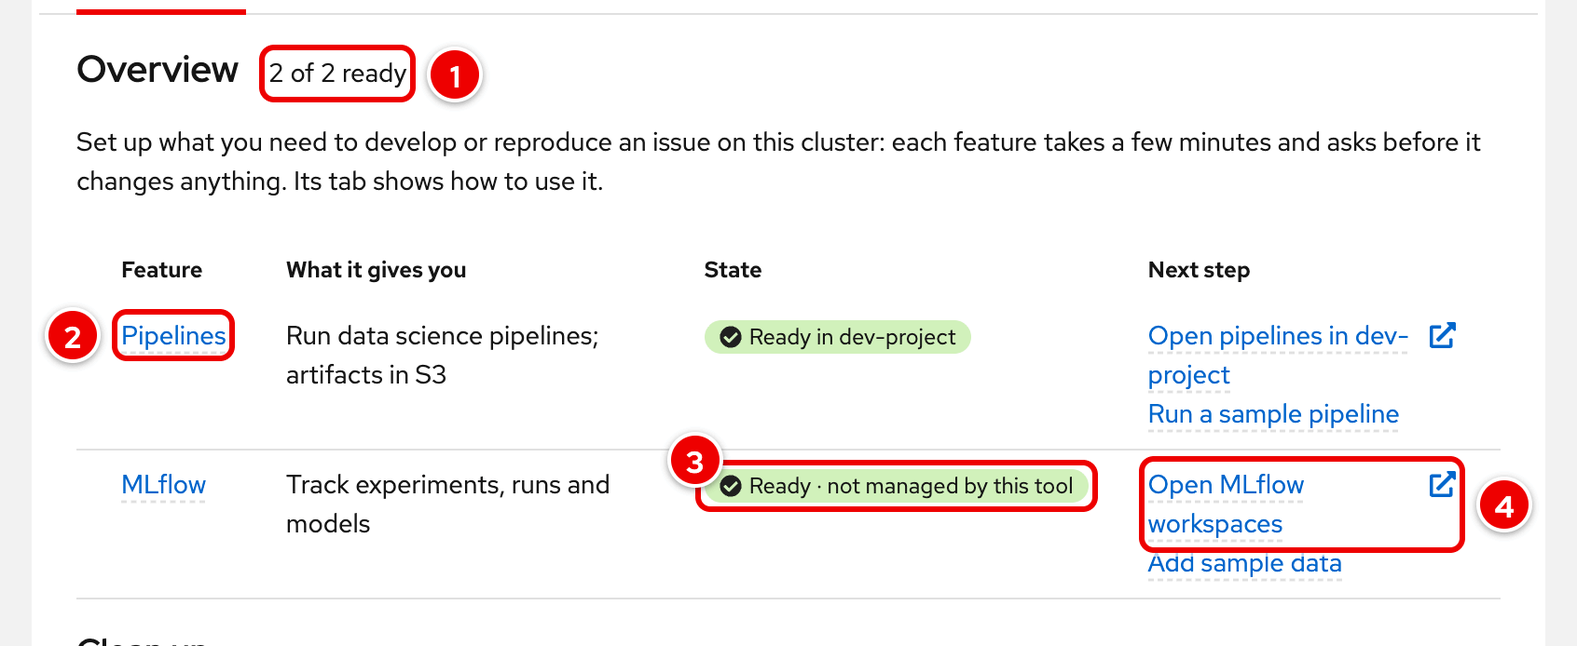
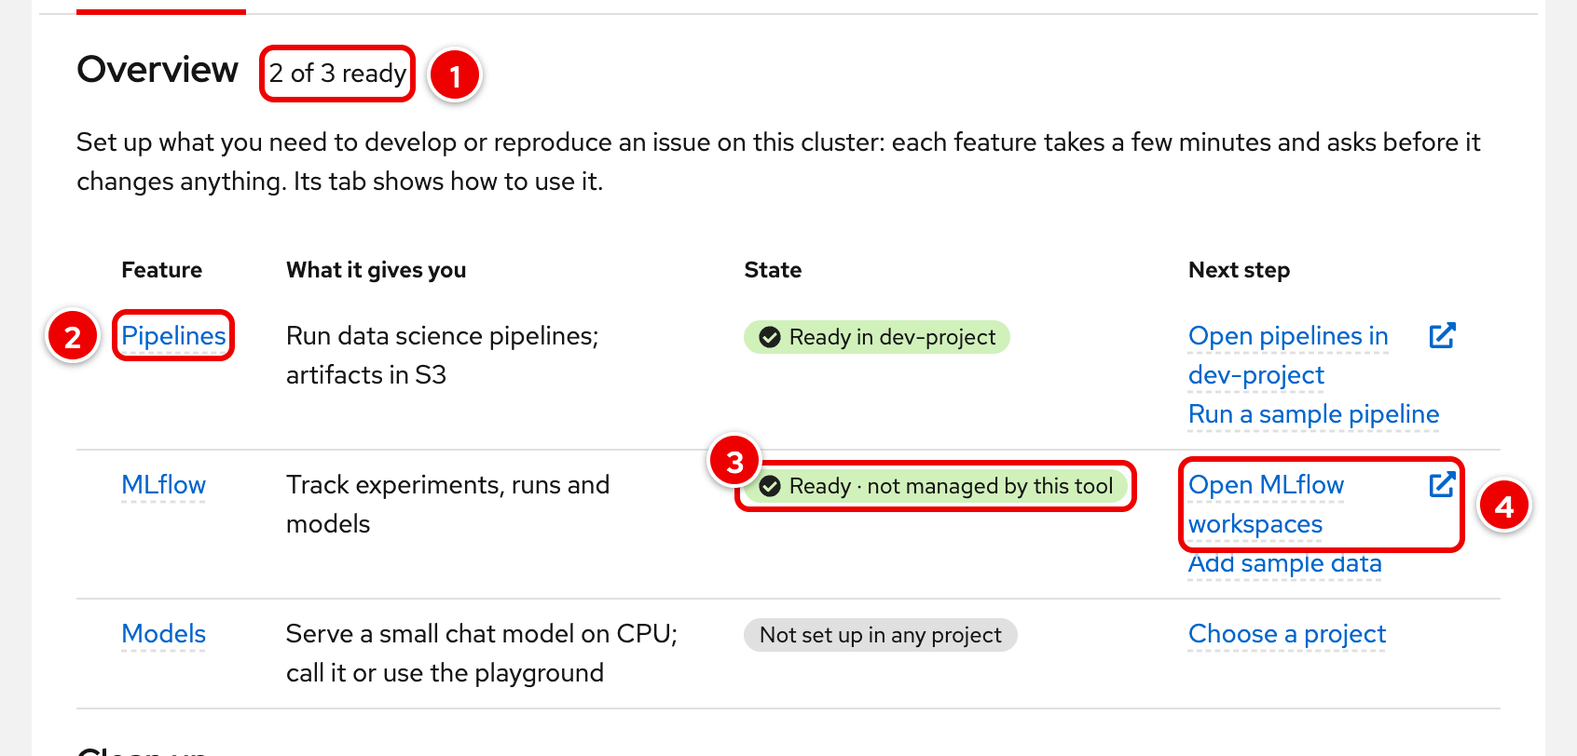
Models: docs, mock states and docs images
- CLUSTER_CHANGES §8: every object the gateway and model setups create,
  what OpenShift, KServe and odh-model-controller add, and what each
  removal deletes and keeps. RUNBOOK §10.2: calling the model with your
  own token, troubleshooting (missing nightly preset image, no room,
  OOM, preset gone, missing AuthPolicy, gateway in use) and rollback.
  README: the Models tab, VLLM_CPU_IMAGE. CHANGELOG 3.0.0.
- Mock: every Models state (ready on the released image, starting,
  preset image missing, foreign gateway and model, unknown health,
  gateway starting, capacity warning, serving blocked, read-only) and
  the Models and clean-up streams.
- Docs images environment-models and environment-models-image; the
  Overview image has the Models row. The samples capture names the
  Regenerate button as the UI now does.
- Models tab: the runtime image on its own line, the addresses as
  copyable references, the load balancer note for a gateway not set up
  yet. A DataScienceCluster that reports the LLM dependencies missing no
  longer reads as model serving turned off.

diff --git a/frontend/src/components/environment/ModelsTab.tsx b/frontend/src/components/environment/ModelsTab.tsx
@@ -3,7 +3,6 @@ import {
   ActionListItem,
   Alert,
   AlertActionLink,
-  ClipboardCopy,
   Content,
   DescriptionList,
   DescriptionListDescription,
@@ -99,7 +98,7 @@ const GatewayPart: React.FC<ModelsTabProps> = ({ status, busy, baseReason, readO
         The front door to every model on the cluster: it answers at <code>https://inference.&lt;apps domain&gt;</code>, sends each call to its model, and checks the caller&apos;s OpenShift token.
         {unmanaged
           ? " It was created outside this tool (for example by RHOAI's installation): models use it as it is, and this tool does not change or delete it."
-          : " It creates a cloud load balancer, which costs money while it exists."}
+          : deployed ? " It runs on a cloud load balancer, which costs money while it exists." : " Setting it up creates a cloud load balancer, which costs money while it exists."}
       </Content>
       {gw && <ProblemAlerts kind="gateway" state={gw} />}
       {deployed && s === "setting-up" && !terminalReason(gw) && !isTerminating(gw) && <StartingNote state={gw!} typical="under a minute" />}
@@ -113,7 +112,7 @@ const GatewayPart: React.FC<ModelsTabProps> = ({ status, busy, baseReason, readO
             <DescriptionListGroup>
               <DescriptionListTerm>External address</DescriptionListTerm>
               <DescriptionListDescription>
-                <ClipboardCopy isReadOnly hoverTip="Copy" clickTip="Copied" variant="inline-compact" aria-label="External address of the inference gateway">{gw.externalUrl}</ClipboardCopy>
+                <ImageRef image={gw.externalUrl} what="external address" truncate={false} isCode={false} />
               </DescriptionListDescription>
             </DescriptionListGroup>
           )}
@@ -190,7 +189,7 @@ const ModelPart: React.FC<ModelsTabProps> = ({ status, project, busy, baseReason
             <DescriptionListGroup>
               <DescriptionListTerm>Address</DescriptionListTerm>
               <DescriptionListDescription>
-                <ClipboardCopy isReadOnly hoverTip="Copy" clickTip="Copied" variant="inline-compact" aria-label={`Address of the model in ${project}`}>{model.url}</ClipboardCopy>
+                <ImageRef image={model.url} what="model address" isCode={false} />
               </DescriptionListDescription>
             </DescriptionListGroup>
           )}
@@ -198,8 +197,10 @@ const ModelPart: React.FC<ModelsTabProps> = ({ status, project, busy, baseReason
             <DescriptionListGroup>
               <DescriptionListTerm>Runtime image</DescriptionListTerm>
               <DescriptionListDescription>
-                {imageWords(model)}
-                {model.currentImage && <> (<ImageRef image={model.currentImage} what="runtime image" />)</>}
+                <Stack>
+                  <StackItem>{imageWords(model)}</StackItem>
+                  {model.currentImage && <StackItem><ImageRef image={model.currentImage} what="runtime image" /></StackItem>}
+                </Stack>
               </DescriptionListDescription>
             </DescriptionListGroup>
           )}

diff --git a/docs/tools/capture.js b/docs/tools/capture.js
@@ -425,6 +425,29 @@ async (page) => {
         pad: 24,
       });
 
+      // Models: the gateway and a ready model; a nightly preset image that is missing.
+      await open("/test-resources?tab=models&project=dev-project", "env-models-ready");
+      const gateway = part("Inference gateway");
+      const qwen = part("Qwen2.5 0.5B Instruct (CPU)");
+      await crop("environment-models", [panel().getByRole("heading", { name: "Models", level: 2 }), qwen], {
+        notes: [
+          { at: label(panel(), "Ready in dev-project"), n: 1, pos: "r" },
+          { at: row(gateway, "External address"), n: 2, pos: "l" },
+          { at: row(qwen, "Address"), n: 3, pos: "l" },
+          { at: row(qwen, "Runtime image"), n: 4, pos: "l" },
+        ],
+        pad: 24,
+      });
+      await open("/test-resources?tab=models&project=dev-project", "env-models-image-missing");
+      const broken = part("Qwen2.5 0.5B Instruct (CPU)");
+      await crop("environment-models-image", broken, {
+        notes: [
+          { at: broken.getByText("The cluster preset's image is not published yet"), n: 1, pos: "r" },
+          { at: broken.getByRole("button", { name: "Use the newest released Red Hat image" }), n: 2, pos: "r" },
+        ],
+        pad: 24,
+      });
+
       // Samples: the MLflow tab's Sample data and the Pipelines tab's sample run.
       const section = (name) => page.getByRole("region", { name });
       await open("/test-resources?tab=mlflow&project=dev-project", "env-samples");
@@ -433,7 +456,7 @@ async (page) => {
         notes: [
           { at: samples.getByRole("button", { name: "Add all" }), n: 1, pos: "l" },
           { at: label(samples, "Partly added"), n: 2, pos: "r" },
-          { at: samples.getByRole("button", { name: "Regenerate agent and prompt demo" }), n: 3, pos: "r" },
+          { at: samples.getByRole("button", { name: "Regenerate the agent and prompt demo" }), n: 3, pos: "r" },
           { at: label(samples, "Not managed by this tool"), n: 4, pos: "r" },
         ],
         pad: 24,

diff --git a/frontend/src/components/environment/models.test.tsx b/frontend/src/components/environment/models.test.tsx
@@ -101,7 +101,7 @@ describe("Models tab", () => {
     stubApi({ "/api/resources/status": status({ inferenceGateway: { ...gateway, usedBy: ["dev/qwen25-05b-instruct"], teardownBlockedReason: "Models route through it: dev/qwen25-05b-instruct. Delete that model first." }, models: modelsStatus({ items: [model("dev")] }) }), "/api/resources/projects": { projects: ["dev"] } });
     renderAt("/test-resources?tab=models&project=dev");
     const gw = await screen.findByRole("listitem", { name: "Inference gateway" });
-    expect(within(gw).getByText(/costs money while it exists/)).toBeInTheDocument();
+    expect(within(gw).getByText(/runs on a cloud load balancer, which costs money while it exists/)).toBeInTheDocument();
     expect(within(gw).getByText(/On: every call needs an OpenShift token/)).toBeInTheDocument();
     const part = screen.getByRole("listitem", { name: "Qwen2.5 0.5B Instruct (CPU)" });
     expect(within(part).getByRole("link", { name: /Open dev in the dashboard/ })).toHaveAttribute("href", "https://rh-ai.apps.example.com/projects/dev?section=model-server");

diff --git a/pkg/cluster/models.go b/pkg/cluster/models.go
@@ -321,7 +321,7 @@ func modelsBlock(dsc dscRead) (*types.ComponentBlock, string) {
 	if deps == "False" {
 		meta, _ := dsc.Object["metadata"].(map[string]interface{})
 		name, _ := meta["name"].(string)
-		return &types.ComponentBlock{Component: "kserve", DSC: name, State: "Managed",
+		return &types.ComponentBlock{Component: "kserve",
 			Reason: fmt.Sprintf("KServe cannot serve LLMInferenceServices yet: DataScienceCluster %s reports %s=False (%s). A cluster-admin installs what it names; the Components page shows the details.", name, llmDependenciesCondition, firstNonEmpty(msg, "no message"))}, deps
 	}
 	return nil, deps

diff --git a/README.md b/README.md
@@ -4,7 +4,7 @@
 
 <h1 align="center">RHOAI Nightly Updater</h1>
 
-The RHOAI Nightly Updater is a web app that installs and updates Red Hat OpenShift AI (RHOAI) nightly builds on your own ROSA HCP or OpenShift cluster. It also deploys odh-dashboard pull requests, sets up test environments on its Environment page (S3 storage, pipeline servers, MLflow) and explains what is wrong when RHOAI is not healthy. You need no `oc` commands day to day: everything is a button, and every change asks for confirmation first.
+The RHOAI Nightly Updater is a web app that installs and updates Red Hat OpenShift AI (RHOAI) nightly builds on your own ROSA HCP or OpenShift cluster. It also deploys odh-dashboard pull requests, sets up test environments on its Environment page (S3 storage, pipeline servers, MLflow, a CPU model) and explains what is wrong when RHOAI is not healthy. You need no `oc` commands day to day: everything is a button, and every change asks for confirmation first.
 
 <p align="center">
   <picture>
@@ -69,18 +69,18 @@ Every nightly tag on Quay: filter, see the contents of a build, compare it with 
 
 It deploys RHOAI Konflux builds (`odh-pr-<N>`, `odh-stable`) or ODH OpenShift CI builds (`pr-<N>`, `main`). **Deploy latest main** pins the build under its commit tag (`:<commit>@sha256:...`), so the cluster names the commit it runs even after the `main` or `odh-stable` tag has moved on.
 
-### Environment: S3 storage, pipeline servers, MLflow
+### Environment: S3 storage, pipeline servers, MLflow, models
 
-One tab per feature after an **Overview**, kept in the address so a link opens the same view (`?tab=pipelines&project=<name>`, `?tab=mlflow`).
+One tab per feature after an **Overview**, kept in the address so a link opens the same view (`?tab=pipelines&project=<name>`, `?tab=mlflow`, `?tab=models&project=<name>`).
 
-<img src="docs/images/environment-overview.png" alt="Overview: 2 of 2 ready; Pipelines Ready in dev-project with Open pipelines in dev-project; MLflow Ready, not managed by this tool, with Open MLflow workspaces" width="760">
+<img src="docs/images/environment-overview.png" alt="Overview: 2 of 3 ready; Pipelines Ready in dev-project with Open pipelines in dev-project; MLflow Ready, not managed by this tool, with Open MLflow workspaces; Models Not set up in any project, with Choose a project" width="760">
 
 1. How many features are ready.
 2. Each feature links to its tab (a project-scoped one with its project).
 3. Its state, from the same function as the tab: **Ready**, **Not set up**, **Needs attention**, **Error**, ... Something this tool did not create reads **Ready · not managed by this tool** when it works: ownership never counts as not ready. A project-scoped feature summarises its projects ("Ready in juntao-test", "Ready in 2 of 5 projects", "Not set up in any project").
 4. The next step, a link in the row: **Open pipelines in** its one ready project (with several ready projects, **Choose a project**: the tab's picker decides), **Open MLflow workspaces** (its list of projects), **Set up** (confirm, then a check that every part can be set up, then the missing parts in order, each counted only once it works), **Migrate storage**, **Show issue** (opens the tab at that part) or **Choose a project**. A step that cannot run says why under it.
 
-Under the table, **Clean up everything** deletes what this tool created (the pipeline servers, the S3 storage, MLflow) in one confirmed operation, with a checkbox per part.
+Under the table, **Clean up everything** deletes what this tool created (the pipeline servers, the S3 storage, MLflow, the models, then the inference gateway) in one confirmed operation, with a checkbox per part.
 
 <img src="docs/images/environment-pipelines.png" alt="Pipelines tab: Ready in dev-project, the project picker, S3 storage with endpoint and masked admin password, and the pipeline server with Open pipelines" width="760">
 
@@ -100,6 +100,22 @@ Storage an earlier version set up in namespace `minio` reads **Needs attention**
 2. Ownership, apart: this one was made in the dashboard. It works (Open MLflow, a PR build, Revert), but the tool does not delete it.
 
 MLflow on RHOAI keeps each data science project apart as a workspace. Once it is ready, **Use it** has a project picker, **Open <project> in MLflow** (`<address>/#/experiments?workspace=<project>`), and the client settings to copy (`MLFLOW_TRACKING_URI`, `MLFLOW_TRACKING_TOKEN=$(oc whoami -t)`, `MLFLOW_WORKSPACE=<project>`). Deploying an opendatahub-io/mlflow PR image is under **Test an MLflow PR build**.
+
+#### Models: a small chat model on CPU
+
+<img src="docs/images/environment-models.png" alt="Models tab: Ready in dev-project; the inference gateway Ready with its external address, DNS and authentication; Qwen2.5 0.5B Instruct (CPU) Ready with its address and the released runtime image" width="760">
+
+1. The feature's state in the selected project.
+2. The **inference gateway**, shared by the cluster: every model is reached through it at `https://inference.<apps domain>`, and it checks each caller's OpenShift token. It runs on a cloud load balancer, which costs money while it exists. One that RHOAI's installation (or an admin) made reads **Not managed by this tool** and is used as it is.
+3. The **model** in the project: Qwen2.5 0.5B Instruct, served by vLLM on CPU (4 CPUs, up to 16 GiB). Its address copies with one click; **Open <project> in the dashboard** shows it with the project's deployments, and Gen AI studio offers it in the playground.
+4. Which runtime image it runs. On a nightly build the preset's image is not published yet, so the newest released Red Hat image is used (pinned by digest); `VLLM_CPU_IMAGE` overrides it.
+
+**Set up** creates whatever is missing (the gateway, then the model) in one operation and waits until the model answers, typically 3 to 5 minutes the first time. Once ready, **Use it** has commands that call the model with your own `oc whoami -t` token (no account or key is made). Each part's menu has **Delete**; the gateway stays while a model uses it. Troubleshooting: [RUNBOOK §10.2](RUNBOOK.md#102-models-the-inference-gateway-and-a-cpu-model).
+
+<img src="docs/images/environment-models-image.png" alt="Model Error: the cluster preset's image is not published yet, with Use the newest released Red Hat image" width="760">
+
+1. On a nightly cluster whose preset image is missing from the registry, the model says so in plain words.
+2. **Use the newest released Red Hat image** changes only the model's image.
 
 #### Sample data and a sample pipeline
 
@@ -239,6 +255,7 @@ Environment variables of the `app` container. The template sets the first group;
 | `IMAGE_REPOSITORY`, `RELEASES_URL` | the Quay repository, the GitLab releases page | the update check: the highest `vX.Y.Z` tag of the repository; its release notes are linked on the public releases page (`INSTALLER_RELEASES_URL` below); an empty `IMAGE_REPOSITORY` turns it off |
 | `INSTALLER_RELEASES_URL` | unset: `RELEASES_URL`, except that the default GitLab project maps to its public GitHub mirror (`https://github.com/DaoDaoNoCode/rhoai-nightly-updater/releases`), whose assets download without a sign-in | the releases page the update notice links the release notes on and downloads `install.sh` from: a GitHub (`https://github.com/<owner>/<repo>/releases`) or GitLab (`https://<host>/<project>/-/releases`) releases page. Not a template parameter; set it on the `app` container. A value of another shape, or with characters outside `A-Z a-z 0-9 . _ ~ / -` (and a `:port`), shows no command, only the release notes |
 | `GITHUB_TOKEN` | unset | GitHub API token for commit dates, PR search and Dashboard Dev's distance from `main`. A read-only fine-grained token with public-repository read access is enough |
+| `VLLM_CPU_IMAGE` | unset | the Models tab's runtime image, for example a mirror on a disconnected cluster. Unset: the CPU preset's own image, or on a nightly cluster without a mirror for it the newest released `registry.redhat.io/rhaii/vllm-cpu-rhel9` found in Red Hat's public container catalog |
 | `SEAWEEDFS_IMAGE` | pinned `ghcr.io/chrislusf/seaweedfs@sha256:...` (4.54) | the S3 storage image, for example a mirror; must be a SeaweedFS 4.x whose `weed mini` reads `WEED_ADMIN_*`. `MINIO_IMAGE` is no longer read |
 | `RCLONE_IMAGE` | pinned `docker.io/rclone/rclone@sha256:...` (1.76.0) | the image of Migrate storage's copy Job, for example a mirror; must be an rclone 1.x image with `/bin/sh` |
 | `SEAWEEDFS_ACCESS_KEY_ID`, `SEAWEEDFS_SECRET_ACCESS_KEY` | random per install, kept in `seaweedfs/seaweedfs-s3-credentials` | S3 access key and secret key on a first setup (the secret key is also the admin UI password); keys already stored are kept. `MINIO_ROOT_USER` and `MINIO_ROOT_PASSWORD` are no longer read |

diff --git a/RUNBOOK.md b/RUNBOOK.md
@@ -275,7 +275,7 @@ Alerts: `NightlyUpdaterDown` (target down or absent for 5 m), `NightlyUpdateFail
 
 The S3 storage is SeaweedFS in namespace `seaweedfs` (Deployment `seaweedfs`, PVC `seaweedfs-data`, Service `seaweedfs-s3`, Route `seaweedfs-admin`). Storage an earlier version set up in namespace `minio` is moved with **Migrate storage** (§10.1). Objects and ports: [CLUSTER_CHANGES §8](docs/CLUSTER_CHANGES.md#8-environment-page).
 
-The page has an **Overview** (each feature's state and next step) and one tab per feature: **Pipelines** (S3 storage and a project's pipeline server) and **MLflow**. The tab and the project are in the address. Each part shows its health, its actions and its details inline (endpoint, login, the reason for an error or a repair, the pod's reason under **Technical details**); its menu (⋮) has **Delete** and **Repair**. **Clean up** (each tab, and **Clean up everything** on the Overview) deletes several parts as one operation (`POST /api/resources/cleanup/stream`): the pipeline servers, then the storage, then MLflow, stopping at the first part that fails and saying what was and was not deleted. Health and ownership are separate: something this tool did not create can be **Ready**; it only gets no Delete or Repair. Every change shows its steps and outcome in one dialog; closed early, a notification brings it back.
+The page has an **Overview** (each feature's state and next step) and one tab per feature: **Pipelines** (S3 storage and a project's pipeline server), **MLflow** and **Models** (the inference gateway and a project's CPU model, §10.2). The tab and the project are in the address. Each part shows its health, its actions and its details inline (endpoint, login, the reason for an error or a repair, the pod's reason under **Technical details**); its menu (⋮) has **Delete** and **Repair**. **Clean up** (each tab, and **Clean up everything** on the Overview) deletes several parts as one operation (`POST /api/resources/cleanup/stream`): the pipeline servers, then the storage, then MLflow, then the models, then the inference gateway, stopping at the first part that fails and saying what was and was not deleted. Health and ownership are separate: something this tool did not create can be **Ready**; it only gets no Delete or Repair. Every change shows its steps and outcome in one dialog; closed early, a notification brings it back.
 
 <img src="docs/images/s3-incomplete.png" alt="Storage Needs attention: Deployment seaweedfs is scaled to 0 replicas, with Repair, and the reason in the details" width="760">
 
@@ -333,6 +333,37 @@ The page has an **Overview** (each feature's state and next step) and one tab pe
 | Sample run Failed: an image cannot be pulled | Disconnected or mirrored cluster: mirror the image the section shows, or set `SAMPLE_PIPELINE_IMAGE` on the updater to a pullable copy, then **Run sample pipeline** again |
 | Sample pipeline not offered | It runs only on a ready pipeline server this tool set up (`nightly-dspa`); the section says which condition is missing. A KFP experiment or pipeline `rhoai-nightly-sample` someone else created blocks it |
 | Sample run stays Pending | The section stops checking after 10 minutes (**Check again**). Open the run in the dashboard for its step's state |
+
+### 10.2 Models: the inference gateway and a CPU model
+
+The **Models** tab sets up two parts with one **Set up**: the cluster's **inference gateway** (Gateway `openshift-ingress/openshift-ai-inference`, which every model is reached through) and **Qwen2.5 0.5B Instruct** on CPU in the chosen project (LLMInferenceService `qwen25-05b-instruct`). Objects: [CLUSTER_CHANGES §8](docs/CLUSTER_CHANGES.md#models-inference-gateway-cluster-and-a-cpu-model-a-project-you-choose).
+
+Before Set up the tab says what is missing: model serving turned off (DataScienceCluster `kserve` not Managed, or `KserveLLMInferenceServiceDependencies=False`), no CPU preset on this release, no data science project, or too little room on the workers (a warning only: the model needs 4 CPUs and 12 GiB requested, 16 GiB limit, on one amd64 worker). A gateway someone else made (RHOAI's install, an admin) reads **Not managed by this tool** and is used as it is.
+
+Call a ready model with your own token (no account or key is made):
+
+```bash
+TOKEN=$(oc whoami -t)
+URL=$(oc get llminferenceservice qwen25-05b-instruct -n <project> -o jsonpath='{.status.url}')
+curl -s -H "Authorization: Bearer $TOKEN" $URL/v1/models
+curl -s -H "Authorization: Bearer $TOKEN" -H 'Content-Type: application/json' $URL/v1/chat/completions \
+  -d '{"model":"qwen25-05b-instruct","messages":[{"role":"user","content":"Say hello"}],"max_tokens":64}'
+```
+
+`401`: no or expired token. `403`: your user cannot `get` the model (no access to the project). The `model` field is the resource name, as the dashboard's playground expects.
+
+| Symptom | Cause and fix |
+|---|---|
+| Model **Error**: "The cluster preset's image is not published yet" (`ErrImagePull ... manifest unknown`) | A nightly build's CPU preset names a runtime image Red Hat has not published. Use **Use the newest released Red Hat image** on the model: it sets the newest released `registry.redhat.io/rhaii/vllm-cpu-rhel9` image, pinned by digest. Or mirror `registry.redhat.io/rhaii` to `registry.stage.redhat.io/rhaii` (ImageDigestMirrorSet) with a pull credential for that registry, then set the model up again. On disconnected clusters set `VLLM_CPU_IMAGE` on the updater |
+| Model stays **Setting up**, "Waiting for a worker with room" | `FailedScheduling: Insufficient cpu/memory`. Free 4 CPUs / 12 GiB on one amd64 worker, or add a node; it starts by itself |
+| Model **Error**: "keeps crashing ... OOMKilled" | The 16 GiB limit was too small for the model's KV cache; check `oc logs deploy/qwen25-05b-instruct-kserve -n <project> -c main` |
+| Model **Error**: "KServe cannot resolve its preset" | The preset named in `spec.baseRefs` is gone (RHOAI was updated and its prefix changed). Set the model up again: it re-reads the prefix |
+| Gateway **Needs attention**: "The gateway's authentication is missing" | odh-model-controller adds AuthPolicy `openshift-ai-inference-authn` once a model uses the gateway; check that odh-model-controller and Connectivity Link (Kuadrant) run: `oc get authpolicy -n openshift-ingress` |
+| Gateway **Setting up** for minutes | `oc get gateway openshift-ai-inference -n openshift-ingress -o yaml`: `Programmed=False` names the reason (no load balancer quota, for example). DNS for a new load balancer can take a few minutes |
+| Gateway **Unknown · not managed by this tool** | Someone else's gateway that reports no `Programmed` condition: the tool cannot tell; ask its owner |
+| **Delete inference gateway** unavailable | Models route through it (named), or routes are attached to it (`oc get httproute -A`). Delete those first; models of other tools are never deleted here |
+
+Rollback: **Delete model**, then **Delete inference gateway** (or **Clean up Models**, which runs both in that order). By hand, only for what the tool made (`app.kubernetes.io/managed-by=rhoai-nightly-updater`): `oc delete llminferenceservice qwen25-05b-instruct -n <project>`, then `oc delete gateway openshift-ai-inference -n openshift-ingress`, `oc delete configmap openshift-ai-inference-options -n openshift-ingress`, `oc delete gatewayclass openshift-ai-inference`.
 
 ### 10.1 Migrate storage from an earlier version
 

diff --git a/docs/CLUSTER_CHANGES.md b/docs/CLUSTER_CHANGES.md
@@ -176,6 +176,19 @@ Versions before 3.0.0 set up the storage in namespace `minio`: MinIO (Deployment
 | Deploy MLflow PR | merge-patch (resourceVersion) `spec.image.image` to the PR image digest; the first deploy saves the previous image in annotation `rhoai-nightly-updater/original-image` |
 | Revert | restore the saved image, or remove `spec.image.image` |
 
+### Models: inference gateway (cluster) and a CPU model (a project you choose)
+One streamed operation, `POST /api/resources/models/stream`. Setup reads every object it writes and dry-runs every write before the first one; a refusal changes nothing. Every object carries `app.kubernetes.io/managed-by=rhoai-nightly-updater` and is written with field manager `rhoai-nightly-updater`; an object of the same name without both is someone else's and is never changed or deleted.
+
+| Action | Objects |
+|---|---|
+| Set up the inference gateway | GatewayClass `openshift-ai-inference` (`controllerName: openshift.io/gateway-controller/v1`; a class of that name someone else made is used if it is OpenShift's controller's). ConfigMap `openshift-ingress/openshift-ai-inference-options` (`data.service`: the Service annotation `service.beta.openshift.io/serving-cert-secret-name: openshift-ai-inference-service-tls`). Gateway `openshift-ingress/openshift-ai-inference` (label `istio.io/rev: openshift-gateway`, `spec.infrastructure.parametersRef` to that ConfigMap) with two HTTPS 443 listeners, `allowedRoutes: All`: `https-external`, hostname `inference.<ingresses.config/cluster spec.domain>`, certificate = the Secret IngressController `openshift-ingress-operator/default` names in `spec.defaultCertificate` (else `router-certs-default`), only referenced, never read; and `https`, hostname `openshift-ai-inference-openshift-ai-inference.openshift-ingress.svc.cluster.local` (the Gateway's Service), certificate `openshift-ai-inference-service-tls` (issued by service-ca). Then it waits up to 2 minutes for `Programmed` and an address, and up to 2 minutes for the external hostname's DNSRecord to be published. **Made by OpenShift, not the tool:** the gateway's Deployment and LoadBalancer Service (a cloud load balancer, billed while it exists), a DNSRecord per listener (the `.svc` one stays `UnmanagedDNS`: expected), the serving-cert Secret; and by odh-model-controller, once a model uses the gateway, AuthPolicy `openshift-ai-inference-authn` (TokenReview, then `get` on the model) and EnvoyFilter `openshift-ai-inference-authn-ssl`. A Gateway `openshift-ai-inference` someone else made (RHOAI's chart, an admin) is used as it is |
+| Set up a model | LLMInferenceService `<project>/qwen25-05b-instruct` (`serving.kserve.io/v1alpha2`): labels `opendatahub.io/dashboard=true`, `opendatahub.io/genai-asset=true`; annotations `openshift.io/display-name: Qwen2.5 0.5B Instruct (CPU)`, `opendatahub.io/model-type: generative`, `opendatahub.io/genai-use-case: chat`; `baseRefs: [<LLM_INFERENCE_SERVICE_CONFIG_PREFIX>config-llm-template-cpu]` (prefix read from Deployment `llmisvc-controller-manager` in the applications namespace); `model: {uri: hf://Qwen/Qwen2.5-0.5B-Instruct, name: qwen25-05b-instruct}`; `replicas: 1`; `router: {route: {}, gateway: {}}` (the inference gateway, no scheduler); container `main` with `OMP_NUM_THREADS=4`, `VLLM_CPU_KVCACHE_SPACE=4`, `VLLM_ADDITIONAL_ARGS=--max-model-len 4096`, requests 4 CPU / 12Gi, limits 4 CPU / 16Gi, and `image` only when it is not the preset's (then annotations `rhoai-nightly-updater/runtime-image-source: released` or `override` and `rhoai-nightly-updater/runtime-image-version`). Then it waits up to 10 minutes for `Ready`. The project must exist and be a data science project; it is never created. **Made by KServe:** Deployment `qwen25-05b-instruct-kserve`, Service `qwen25-05b-instruct-kserve-workload-svc`, HTTPRoute `qwen25-05b-instruct-kserve-route`, Secret `qwen25-05b-instruct-kserve-self-signed-certs`. **No** ServiceAccount, Role, RoleBinding or token is created |
+| Use the released image | the same LLMInferenceService, its `main` image set to the newest released `registry.redhat.io/rhaii/vllm-cpu-rhel9@<digest>` (the highest version tag in Red Hat's public container catalog) |
+| Delete the model | LLMInferenceService `qwen25-05b-instruct` in the project, by UID, then a wait (up to 2 minutes) until KServe's finalizer has removed its Deployment, Service and route. The project is kept |
+| Delete the inference gateway | refused while any LLMInferenceService in any namespace routes through it (`spec.router.gateway {}` or a ref to it) or the Gateway reports attached routes; then Gateway, ConfigMap and GatewayClass, those the tool created, by UID. OpenShift removes the load balancer and the ingress operator the DNS records |
+
+Nothing else is touched: other gateways (`maas-default-gateway`, `data-science-gateway`, MCP gateways), RHOAI's presets, `inferenceservice-config`, and models or gateways someone else made.
+
 ## 9. What the tool never does
 
 - Delete a namespace (other than `make undeploy` deleting its own).

diff --git a/CHANGELOG.md b/CHANGELOG.md
@@ -18,6 +18,24 @@ only accepts a tag whose version is the top dated section. See
 
 ## [3.0.0] - unreleased
 
+### Added
+
+- **Environment page, Models tab.** One Set up deploys a small chat model
+  (Qwen2.5 0.5B Instruct, vLLM on CPU, LLMInferenceService
+  `qwen25-05b-instruct`) in a data science project, and the cluster's
+  inference gateway (Gateway `openshift-ingress/openshift-ai-inference`)
+  it is reached through, unless one exists; each has its own removal, and
+  Clean up everything deletes the models, then the gateway. The CPU preset
+  is found at run time; on a nightly cluster that cannot pull the preset's
+  image, the newest released Red Hat image is used (`VLLM_CPU_IMAGE`
+  overrides it). "Use it" calls the model with the user's own token; no
+  account or token is created. The Overview gets a Models row.
+- RBAC (template revision 5): Roles in `openshift-ingress` and
+  `openshift-ingress-operator` (new template parameters `INGRESS_NAMESPACE`,
+  `INGRESS_OPERATOR_NAMESPACE`) and named ClusterRole rules for the
+  GatewayClass, LLMInferenceServices and their presets; each is audited in
+  SECURITY.md.
+
 ### Changed
 
 - MLflow set up by this tool uses the MLflow operator's own resource
